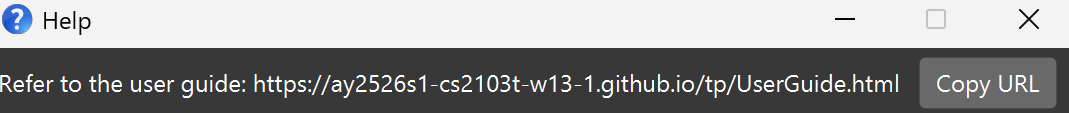
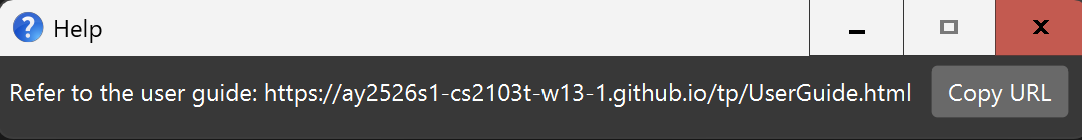
Fix language & punctuation, rectify help image cropping and change find UG

diff --git a/docs/UserGuide.md b/docs/UserGuide.md
@@ -4,19 +4,19 @@ title: User Guide
 ---
 
 CareLink helps Non-Governmental Organisations (NGOs) deliver social assistance efficiently by
-connecting beneficiaries to volunteers as quickly as possible. 🤝
+connecting beneficiaries to volunteers as quickly as possible. 
 
 NGOs often serve a large number of beneficiaries with a limited pool of volunteers,
 making it challenging to respond promptly to those in need.
 
-By consolidating beneficiary and volunteer data into a single, streamlined system 📚, CareLink enables dispatchers to:
+By consolidating beneficiary and volunteer data into a single, streamlined system, CareLink enables dispatchers to:
 
-* 📝 create and update records for beneficiaries and volunteers
-* 🔍 access information quickly using **optimized find and sort commands**
-* 📍 automatically identify the **closest available volunteer**
-* 📈 reduce errors and delays caused by manual lookups or outdated records
+* create and update records for beneficiaries and volunteers
+* access information quickly using **optimized find and sort commands**
+* automatically identify the **closest available volunteer**
+* reduce errors and delays caused by manual lookups or outdated records
 
-In short, CareLink helps dispatchers quickly access and update beneficiary and volunteer records. 💙
+In short, CareLink helps dispatchers quickly access and update beneficiary and volunteer records. 
 
 ## Table of Contents
 
@@ -100,13 +100,13 @@ You get to choose the location. Treat it as your _CareLink Home Folder_.
 
 #### 4⃣ Launch CareLink
 
-1.  Open your **Command Prompt** for Windows / **Terminal** for Mac
+1.  Open your **Command Prompt** for Windows / **Terminal** for Mac/Linux
 
 2.  Navigate to your CareLink Home folder:
 
-    `cd path/to/home_folder`
+    `cd path/to/home_folder` 
 
-    For example, if CareLink Home folder is `C:/usr/folder/CareLink` and the terminal is pointing to `C:/usr`, run the command `cd folder/CareLink`.
+    For example, if CareLink Home folder is `C:/usr/Downloads/CareLink`, run the command `cd C:/usr/Downloads/CareLink`.
 
     Your terminal should now show you are inside that folder.
 
@@ -121,7 +121,7 @@ About 10 seconds later, the CareLink interface will greet you with sample volunt
 
 #### 5⃣ Try Out Some Commands
 
-In the command box at the bottom, type a command and hit **Enter** to execute.
+In the command box at the top left, type a command and hit **Enter** to execute.
 
 Some useful examples for volunteer admin staff:
 
@@ -131,13 +131,13 @@ Some useful examples for volunteer admin staff:
 
    * `delete 3` : Deletes the 3rd contact shown in the current list.
 
-   * `clear` : Deletes all contacts.
+   * `clear` : Deletes all contacts. You can use this once you are ready to add your own data.
 
    * `exit` : Exits the app.
 
 #### 6⃣ Learn More
 
-Details of every feature and command can be found in the [Features](#features) section below. You will soon explore assigning roles, tracking participation, and keeping volunteer info updated effortlessly!
+Details of every feature and command can be found in the [Features](#features) section below. You will soon explore assigning roles, tracking participation, and keeping volunteer and beneficiary info updated effortlessly!
 
 -----
 
@@ -150,7 +150,7 @@ Details of every feature and command can be found in the [Features](#features) s
 **:information_source: Notes about the command format:**<br>
 
 * Words in `UPPER_CASE` are the attributes to be supplied by the user.<br>
-  e.g. in `add n/NAME`, `NAME` is a attribute which can be used as `add n/John Doe`, `n/` is its attribute prefix.
+  e.g. in `add n/NAME`, `NAME` is an attribute which can be used as `add n/John Doe`, `n/` is its attribute prefix.
 
 * Items in square brackets are optional.<br>
   e.g `n/NAME [t/TAG]` can be used as `n/John Doe t/friend` or as `n/John Doe`.
@@ -174,9 +174,9 @@ Details of every feature and command can be found in the [Features](#features) s
 
 ### Viewing help : `help`
 
-Shows a message explaining how to access the help page.
+Shows a message explaining how to access CareLink's help page.
 
-**✏ Format:**<br>
+**Format:**<br>
 `help`
 
 **📘 Example:**
@@ -198,19 +198,19 @@ Simply click the `Copy URL` button to copy the link and paste it in your web bro
 
 Adds a contact to the address book.
 
-**✏ Format:**<br>
+**Format:**<br>
 `add n/NAME p/PHONE_NUMBER e/EMAIL a/ADDRESS r/REGION t/volunteer|beneficiary [t/TAG]…`
 
 <div markdown="block" class="alert alert-info">
 
 :information_source: **Important Note:** <br>
-* Attributes must follow [Valid Attributes](#valid-attributes)
-* A contact can have any number of tags, but must have a tag that is either volunteer or beneficiary
-* A contact's attributes can be edited via `edit` later on, however all attributes must first be provided
+* Attributes must follow [Valid Attributes](#valid-attributes).
+* A contact can have any number of tags, but must have a tag that is either volunteer or beneficiary.
+* A contact's attributes can be edited via [edit](#editing-a-contact--edit) later on, however all attributes must first be provided.
 
 </div>
 
-**📘 Examples:**
+**Examples:**
 * `add n/John Doe p/98765432 e/johnd@example.com a/John street, block 123, #01-01 r/woodlands t/volunteer`
 will add John Doe to the list and set his attributes to the given attributes
 * `add n/Betsy Crowe e/betsycrowe@example.com a/24 Mandai Garden street r/yishun p/1234567 t/beneficiary t/senior`
@@ -226,23 +226,28 @@ will add Betsy Crowe to the list and set her attributes to the given attributes
 
 Edits an existing contact in the address book.
 
-**✏ Format:**<br>
+**Format:**<br>
 `edit INDEX [n/NAME] [p/PHONE] [e/EMAIL] [a/ADDRESS] [r/REGION] [t/TAG]…`
 
 <div markdown="block" class="alert alert-info">
 
 :information_source: **Important Note:** <br>
 * Edits the contact at the specified `INDEX`. The index refers to the index number shown in the displayed contact list. The index **must be a positive integer** 1, 2, 3, …
-* The index is affected by `find` and `sort`
+* The index is affected by `find` and `sort`.
 * At least one of the optional fields must be provided.
-* Attributes must follow [Valid Attributes](#valid-attributes)
+* Attributes must follow [Valid Attributes](#valid-attributes).
 * If tags are edited, must include a tag indicating volunteer or beneficiary.
-* Existing values will be updated to the input values.
-* When editing tags, the existing tags of the contact will be removed i.e adding of tags is not cumulative.
+* Existing values will be updated to the input values. 
+
+<div markdown="block" class="alert alert-warning">
+
+:exclamation: **Caution:** <br>
+When editing tags, the existing tags of the contact will be removed i.e adding of tags is not cumulative.
+</div>
 
 </div>
 
-**📘 Examples:**
+**Examples:**
 *  `edit 1 p/91234567 e/johndoe@example.com` Edits the phone number and email address of the 1st contact to be `91234567` and `johndoe@example.com` respectively.
 *  `edit 2 n/Betsy Crower` Edits the name of the 2nd contact to be `Betsy Crower`
 
@@ -255,22 +260,22 @@ Edits an existing contact in the address book.
 
 Deletes one or more specified contacts from the address book.
 
-**✏ Format:**<br>
+**Format:**<br>
 `delete INDEX [MORE_INDEXES]...`
 
 <div markdown="block" class="alert alert-info">
 
 :information_source: **Important Note:** <br>
 * Each index refers to the index number shown in the displayed contact list.
-* A minimum of one index must be specified
+* A minimum of one index must be specified.
 * Each index must be a **whole number greater than 0,** e.g. 1, 2, 3, …
-* The order of the indexes do not matter 
-* Spaces must be used to separate indexes 
-* Duplicate indexes will be ignored
+* The order of the indexes do not matter. 
+* Spaces must be used to separate indexes.
+* Duplicate indexes will be ignored.
 </div>
 
 
-**📘 Examples:**
+**Examples:**
 * `list` followed by `delete 2` 
 <br>![result for 'list'](images/listBeforeDelete.png)
 Running `list` lists all contacts.<br>![result for 'delete 2'](images/afterDeleteTwo.png)
@@ -295,13 +300,13 @@ Deletes all contacts in the address book.
 :exclamation: **Caution:** <br>
 * This command will permanently delete **all** contacts in the address book.
 * Please think carefully before executing this **irreversible** action.
-* No extra input is needed
+* No extra input is needed.
 </div>
 
-**✏ Format:**<br>
+**Format:**<br>
 `clear`
 
-**📘 Example:**
+**Example:**
 * `clear` deletes all contacts in CareLink.
 
 <br><br>
@@ -317,12 +322,12 @@ Deletes all contacts in the address book.
 
 Shows a list of all contacts in the address book.
 
-**✏ Format:**<br>
+**Format:**<br>
 `list`
 
-**📘 Example:**
+**Example:**
 * `list`<br>![result for 'find alex david'](images/list-success-screenshot.png)
-Displays all volunteers and beneficiaries' contact details in the address book. At the panel below the command box,
+CareLink displays all volunteers' and beneficiaries' contact details. At the panel below the command box,
 you can see the total number of contacts.
 
 <br><br>
@@ -334,9 +339,9 @@ you can see the total number of contacts.
 ### Locating contacts: `find`
 
 Filters contacts whose fields match the keywords. 
-You can use this to quickly identify or filter volunteers and beneficiaries based on their attributes!
+You can use this to quickly identify or filter volunteers and beneficiaries based on their attributes.
 
-**✏ Format:**<br>
+**Format:**<br>
 `find [n/NAME_KEYWORDS] [p/PHONE_KEYWORDS] [e/EMAIL_KEYWORDS] [a/ADDRESS_KEYWORDS] [t/TAG_KEYWORDS]`
 
 <div markdown="block" class="alert alert-info">
@@ -345,16 +350,16 @@ You can use this to quickly identify or filter volunteers and beneficiaries base
 * Keywords can be:
   * full words: `n/Alex` 
   * prefixes: `n/Al%` using `%` to indicate a prefix keyword
-* If keyword is a full word, only full words will be matched for that attribute.
+* If keyword is a full word, that attribute will only match full words.
   * `n/Han` will not match name `Hans`, `r/BukitTimah` will not match region `Bukit Timah`.
-* If keyword is a prefix, any word containing the prefix will be matched for that attribute.
+* If keyword is a prefix, that attribute will match any word containing the prefix.
   * `n/Han%` can match name `Hans` and `Bo Hans`.
 * Keywords are <u>case-insensitive</u>.
 * The order of the keywords does not matter.
 * Multiple keywords per field are allowed.
 
 <div markdown="span" class="alert alert-warning">:exclamation: **Caution:**
-* Prefix keyword searches are not supported for addresses.
+Prefix keyword searches are not supported for addresses.
 </div>
 
 <div markdown="span" class="alert alert-primary">:bulb: **Tip:**
@@ -364,14 +369,14 @@ Use [sort](#sorting-persons-sort) to rank the filtered contacts since `find` doe
 </div>
 
 
-**📘 Examples:**
+**Examples:**
 * `find n/aleX DAViD t/volunteer`<br>
 Uses only full-word keywords to search for volunteers named Alex or David.
 
 <br><br>
 
 * `find n/ale davi` <br>
-No results found as no volunteers have the full words `ale` or `davi` in their names.
+CareLink found no results found as no volunteers have the full words `ale` or `davi` in their names.
 
 <br><br>
 
@@ -389,7 +394,7 @@ Uses a mix of prefix and full-word keywords to find `Bernice` and `Irfan Ibrahim
 
 Sorts contacts by the fields in the order of the attribute prefixes
 
-**✏ Format:**<br>
+**Format:**<br>
 `sort [n/] [p/] [e/] [a/] [t/]`
 
 <div markdown="block" class="alert alert-info">
@@ -402,7 +407,7 @@ Sorts contacts by the fields in the order of the attribute prefixes
 
 </div>
 
-**📘 Examples:**
+**Examples:**
 * `sort n/` will return all contacts sorted by their names in alphabetical order
 * `sort n/ p/` will return all contacts sorted by name then phone number
 * `sort p/ n/` will return all contacts sorted by phone number then name
@@ -417,7 +422,7 @@ Sorts contacts by the fields in the order of the attribute prefixes
 
 Sorts volunteers/beneficiaries according to how close their region is to the region of the identified beneficiary/volunteer by the index provided. If the identified stakeholder is a volunteer, the list will only show beneficiaries and vice versa.
 
-**✏ Format:**<br>
+**Format:**<br>
 `closest INDEX`
 
 <div markdown="block" class="alert alert-info">
@@ -434,7 +439,7 @@ Use [find](#locating-persons-find) and [sort](#sorting-persons-sort) to narrow d
 This allows easy selection of volunteers to dispatch.
 </div>
 
-**🎯 Expected Outcome:**
+**Expected Outcome:**
 * Displays all volunteers/beneficiaries sorted according to how close their region is to the region of the identified beneficiary/volunteer by the index provided.
   * e.g. `closest 1` when beneficiary at index 1 has region Woodlands, will return all volunteers sorted by how close their region is to Woodlands
 
@@ -451,23 +456,23 @@ This allows easy selection of volunteers to dispatch.
 
 Cycles between commands in the command history.
 
-**⌨ Usage:**<br>
-* Press `⬆ UP Key`: Cycles to more recent commands
+**Usage:**<br>
+* Press `⬆ UP Key`: Cycles to more recent commands.
 
-* Press `⬇ DOWN Key`: Cycles to older commands
+* Press `⬇ DOWN Key`: Cycles to older commands.
 
 <div markdown="block" class="alert alert-info">
 
 :information_source: **Important Note:**
-* When you first press the `⬆ UP Key` or `⬇ DOWN Key`, the most recent command will show up
-* If you are at the most recent command (the top most command), pressing the `⬆ UP Key` will retrieve the oldest command
+* When you first press the `⬆ UP Key` or `⬇ DOWN Key`, the most recent command will show up.
+* If you are at the most recent command (the top most command), pressing the `⬆ UP Key` will retrieve the oldest command.
 * Likewise, if you are at the oldest command (the bottom most command), pressing the `⬇ DOWN Key` will retrieve the 
-most recent command
-* Only the 5 most recent commands will be displayed in the command history
+most recent command.
+* Only the 5 most recent commands will be displayed in the command history.
 
 </div>
 
-**📘 Example:**
+**Example:**
 * Command History List <br> ![Command History List](images/CommandHistoryList.png)
   <br>
   After pressing either the `⬆ UP Key` or the `⬇ DOWN Key` for the first time since a valid command was executed,
@@ -490,7 +495,7 @@ Provides suggestions to autocomplete your input text. Autocompletes command word
 Press **Tab** to complete the prefix and start typing an attribute. When you finish it, press **Space** and the next attribute prefix will be suggested automatically.
 </div>
 
-**📘 Examples:**
+**Examples:**
 * Autocomplete of command `delete` <br> ![result for autoComplete](images/autoComplete-success.png)
 Typing the letter 'd' in an attempt to type the `delete` command will prompt autocomplete to suggest 'elete'. Pressing
 `Tab` autocompletes the command rendering 'delete' in the command box.
@@ -503,12 +508,12 @@ Typing the letter 'd' in an attempt to type the `delete` command will prompt aut
 
 ### Copying data via Clipboard button
 
-For each entry in the display list, users can copy and paste details like Phone, Email and Address using the clipboard button that appears on hover.
+For each entry in the display list, CareLink helps you quickly copy and paste details like Phone, Email and Address.
 
-**📘 Examples:**
+**Examples:**
 * Copying details from the display list <br>
 ![Example of copying](images/ClipboardButtonScreenshot.png)
-Hovering your mouse over the attribute you want to copy, reveals the Clipboard button that allows copying the data.
+Hover your mouse over the attribute you want to copy to reveal the 📋 button that allows copying the data.
 
 <br><br>
 
@@ -518,7 +523,7 @@ Hovering your mouse over the attribute you want to copy, reveals the Clipboard b
 
 ### Saving the data
 
-CareLink data are saved in the hard disk automatically after any command that changes the data. There is no need to save manually.
+CareLink data is saved in the hard disk automatically after any command that changes the data. There is no need to save manually.
 
 ### Editing the data file
 
@@ -659,10 +664,10 @@ Tags are alphanumeric, at least one tag must be `volunteer` or `beneficiary`.
 Data is only stored locally, saved automatically whenever commands that modify data are executed.
 
 **Q**: How do I transfer my data to another Computer?<br>
-**A**: Install the app in the other computer and overwrite the empty data file (`addressbook.json`) it creates with the original data file.
+**A**: Install the app in the other computer and overwrite the empty data file (`carelink.json`) it creates with the original data file.
 If the data folder does not exist yet, you can simply copy over the entire `data` folder from your previous CareLink home folder.
 
-**Q**: What do I do if the command box says "Unknown command"?<br>
+**Q**: What do I do if I get an error message which says "Unknown command"?<br>
 **A**: This means that the command you entered is not recognized by the application. Please ensure that you have typed the command correctly according to the formats specified in this user guide. You can type `help` to view the help window for reference.
 
 <br><br>
@@ -690,7 +695,7 @@ Action | Format, Examples
 **Clear** | `clear`
 **Delete** | `delete INDEX [MORE_INDEXES]...`<br> e.g., `delete 1 3`
 **Edit** | `edit INDEX [n/NAME] [p/PHONE] [e/EMAIL] [a/ADDRESS] [r/REGION] [t/TAG]…`<br> e.g.,`edit 2 n/James Lee e/jameslee@example.com`
-**Find** | `find [prefix/KEYWORDS]...`<br> e.g., `find n/James p/92813321`
+**Find** | `find [prefix/KEYWORDS]...`<br> e.g., `find n/Al% p/92813321`
 **Sort** | `sort [prefix/]...` <br> e.g., `sort n/ p/`
 **Closest** | `closest INDEX` <br> e.g., `closest 3`
 **List** | `list`
